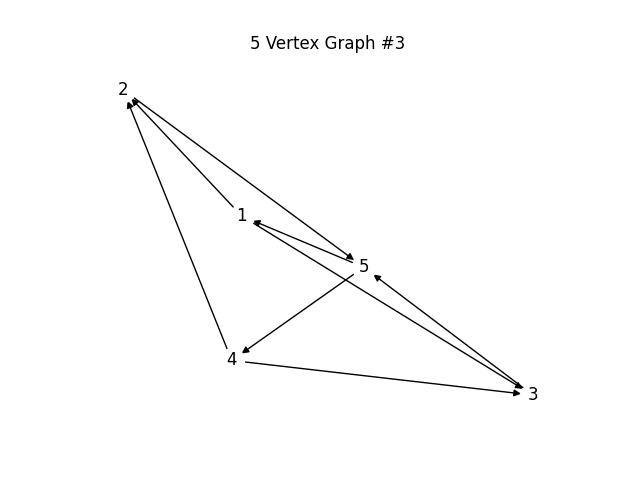
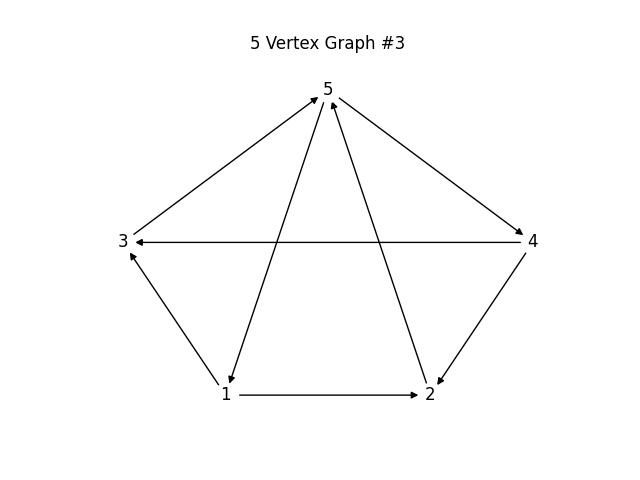
#19 newly reformatted 5 graphs

diff --git a/VisualizeGraphs.py b/VisualizeGraphs.py
@@ -23,10 +23,17 @@ for line in contents:
             tempList.append(tempTuple)
         index+=1
 
+    G.add_node(1,pos=(2,1))
+    G.add_node(2,pos=(4,1))
+    G.add_node(3,pos=(1,2))
+    G.add_node(4,pos=(5,2))
+    G.add_node(5,pos=(3,3))
+    pos=nx.get_node_attributes(G,'pos')
+
     print(tempList)
     G.add_edges_from(tempList)
     plt.title(str(numVertices)+" Vertex Graph #"+str(graphnum))
-    nx.draw(G,node_color='white',with_labels=True)
+    nx.draw(G,pos,node_color='white',with_labels=True)
[1 lines of base64/hex data omitted]
     plt.clf()
     G.clear()
